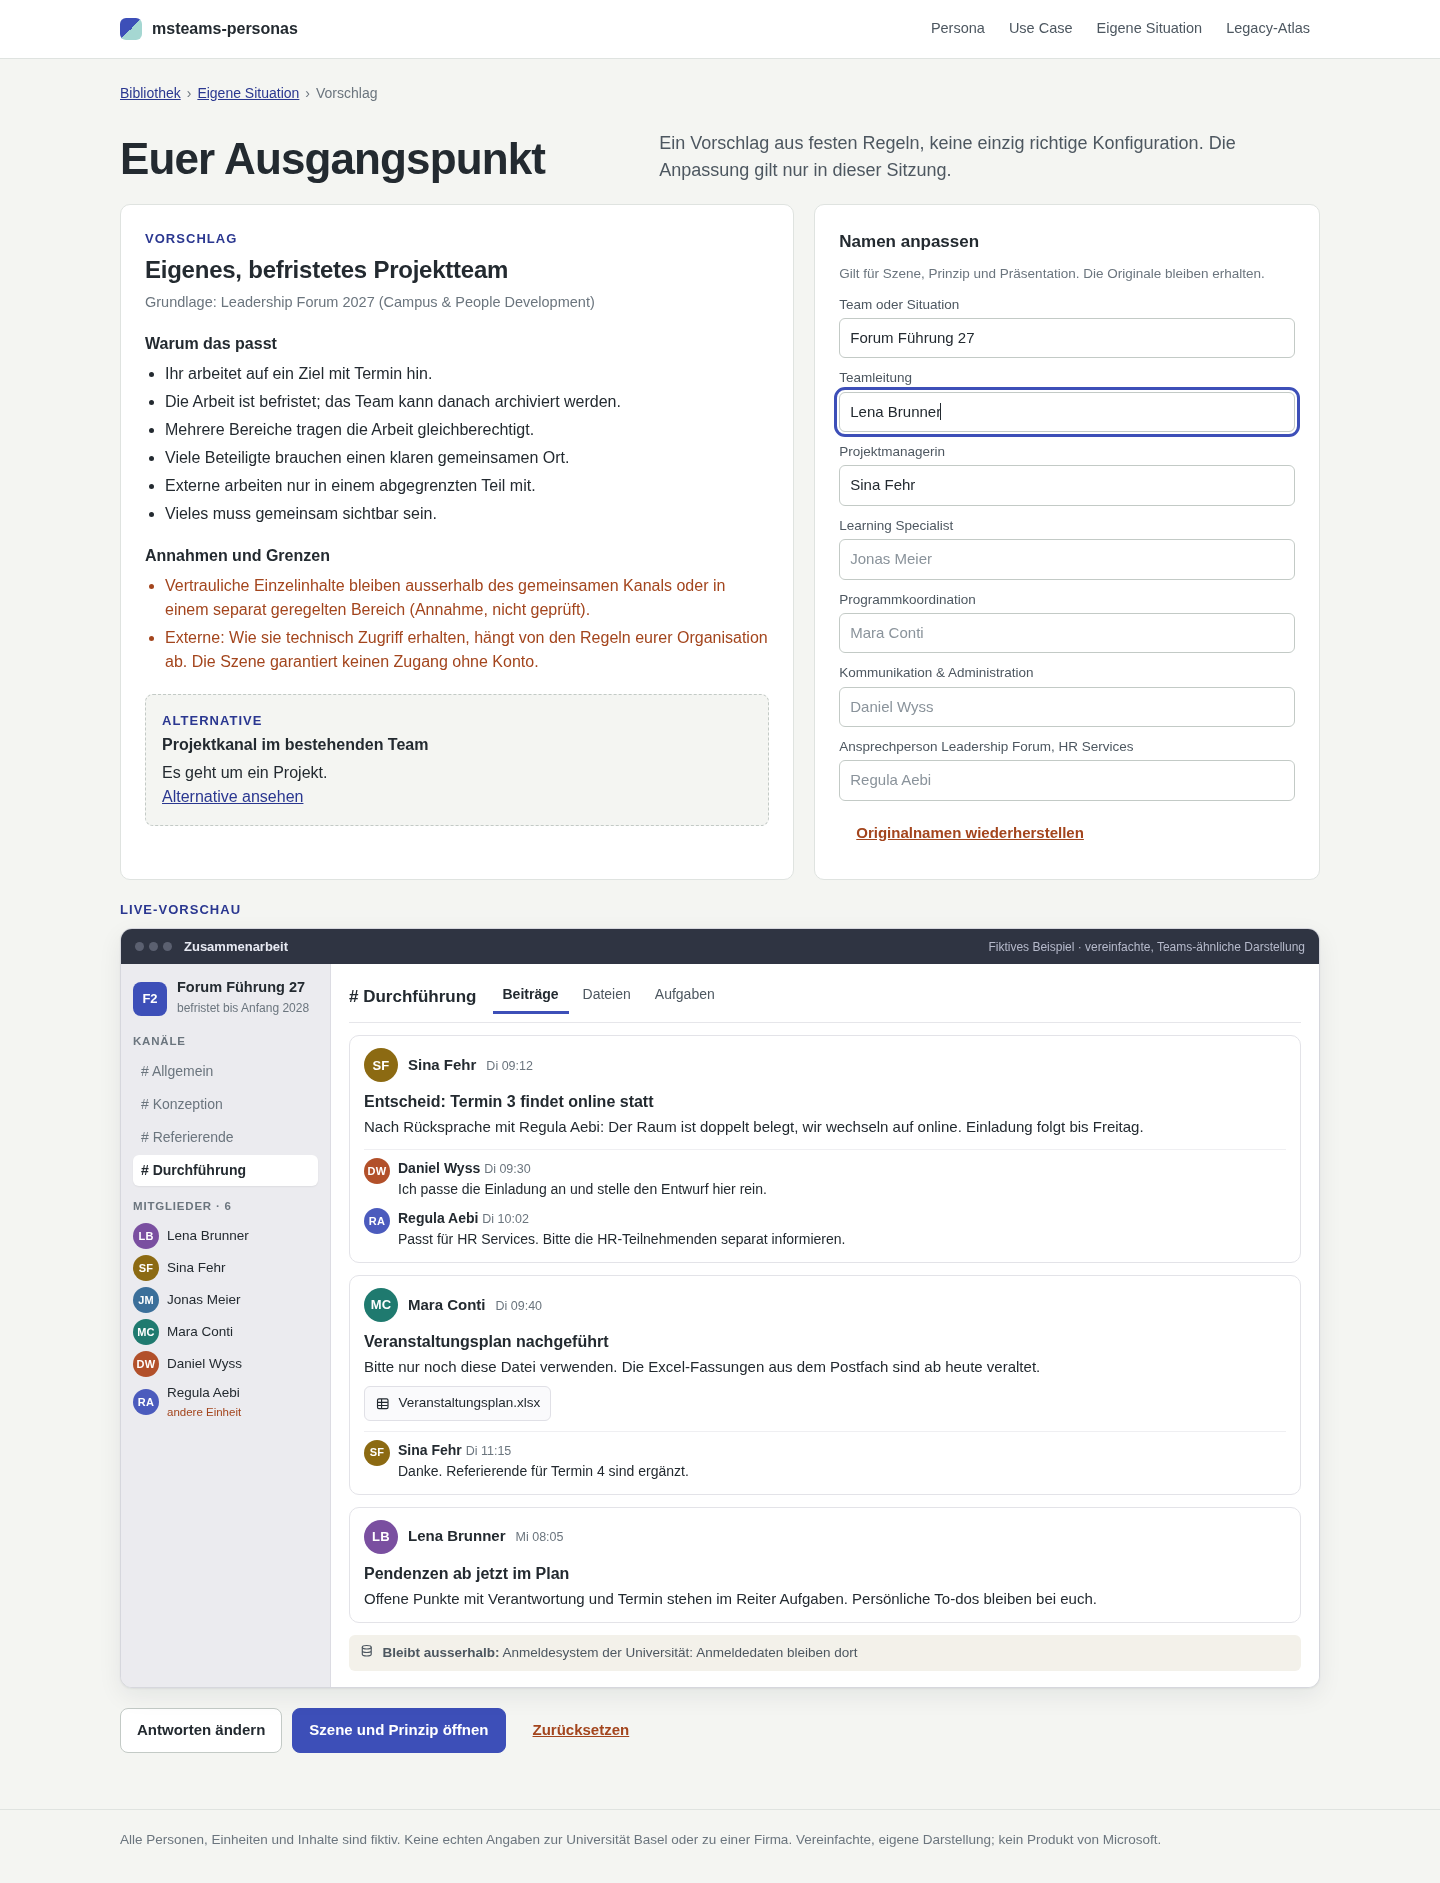
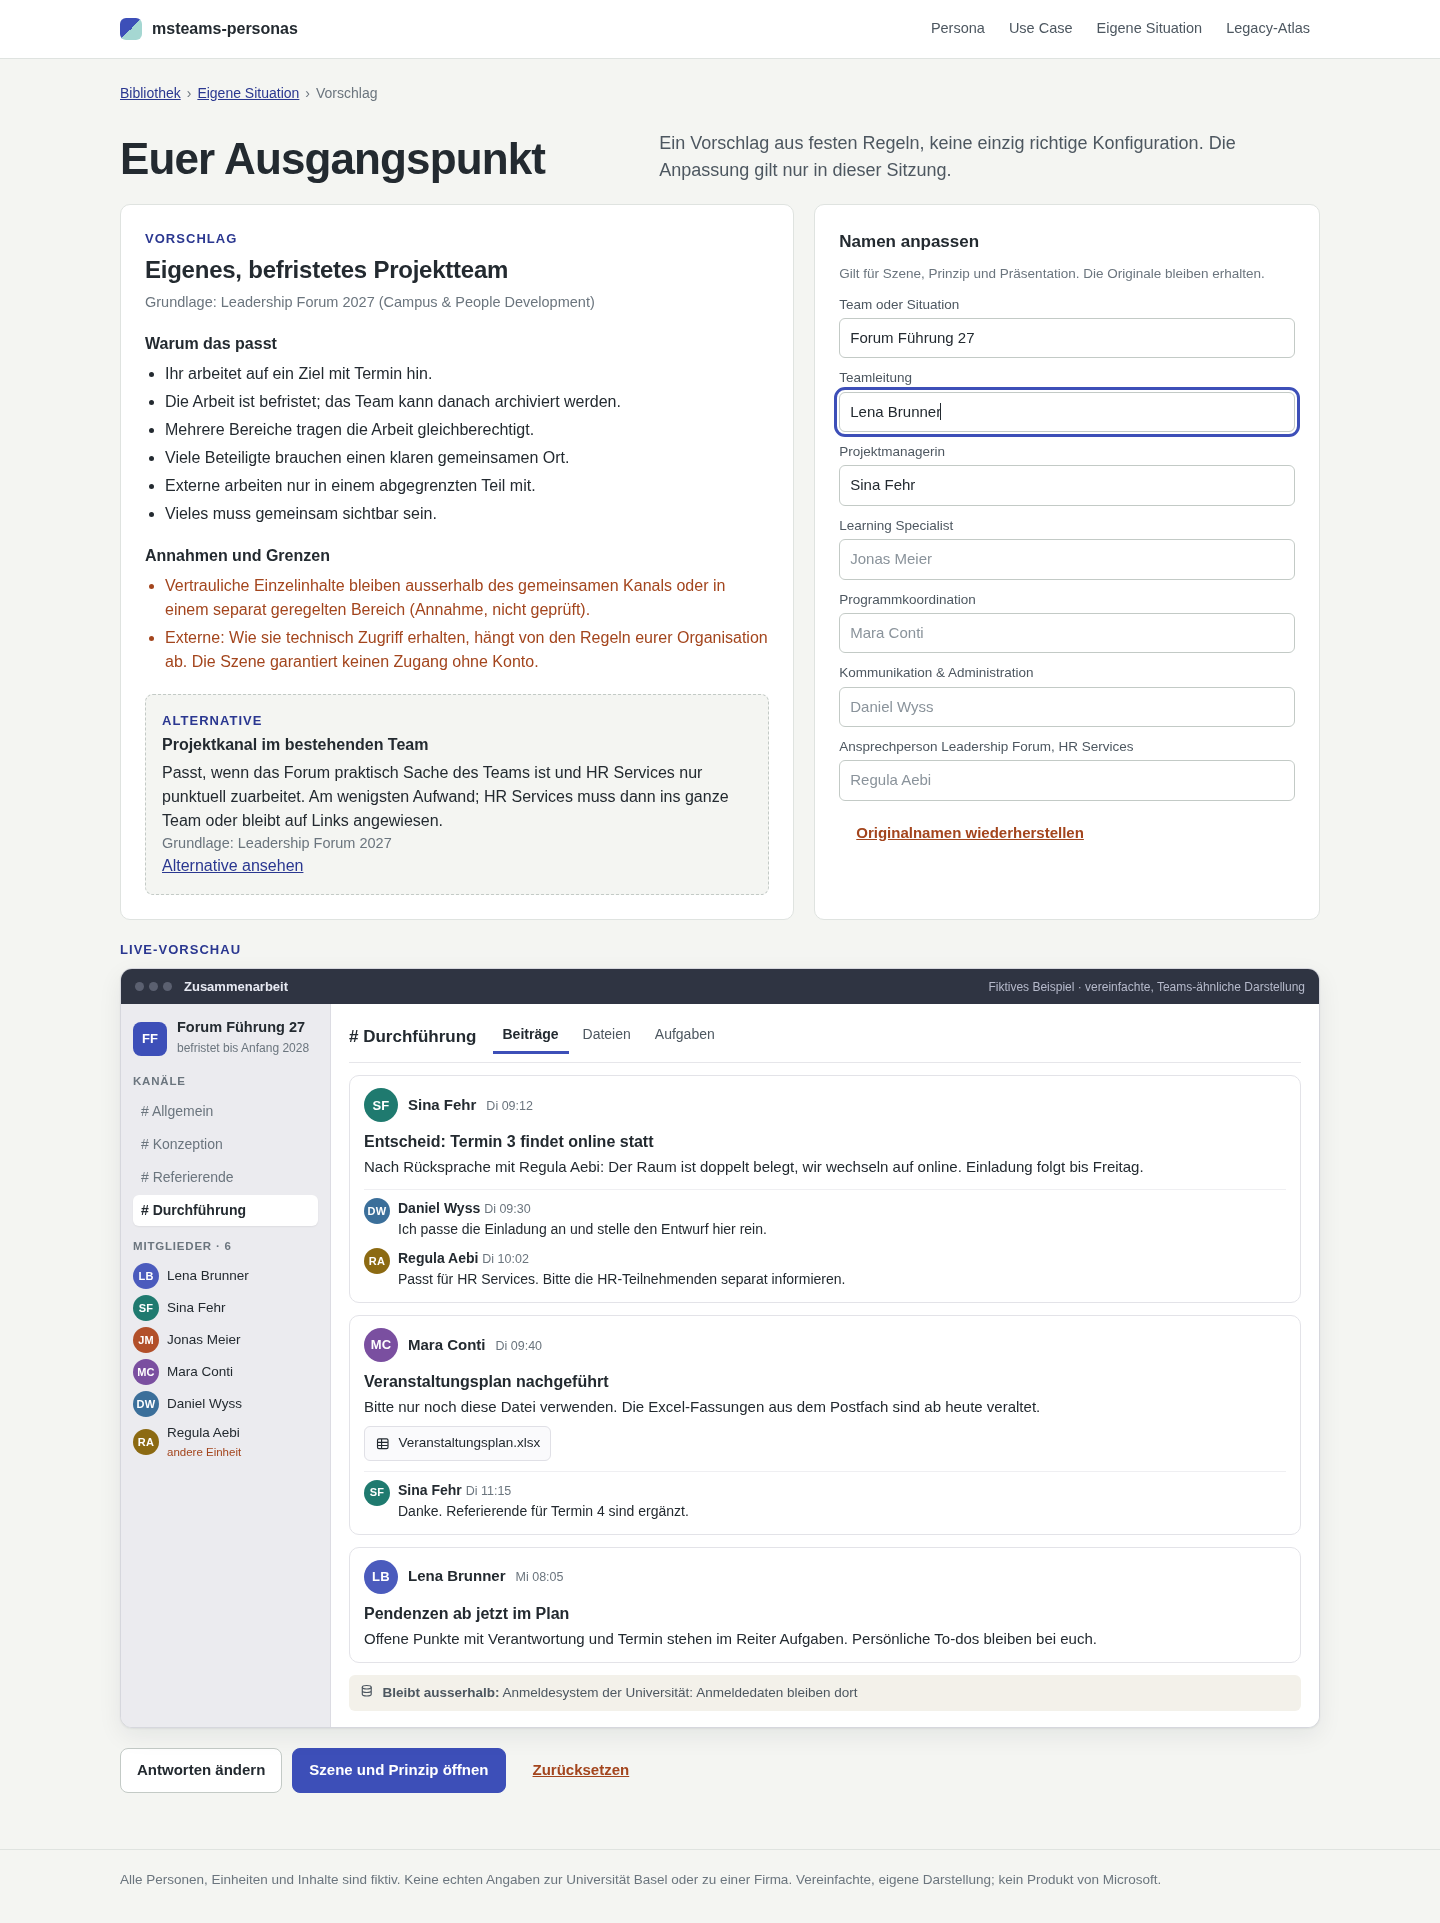
Refine stage fit, hero previews, personal file view and alternative rationale

diff --git a/src/app.css b/src/app.css
@@ -188,7 +188,8 @@ h2{font-size:24px;letter-spacing:-.01em;font-weight:650}
 .tw-files{width:100%;border-collapse:collapse;font-size:14px}
 .tw-files th{text-align:left;font-size:12px;color:var(--ink-3);font-weight:600;padding:6px 8px;border-bottom:1px solid #e6e6ea}
 .tw-files td{padding:9px 8px;border-bottom:1px solid #f0f0f3;vertical-align:top}
-.tw-files td:first-child{display:flex;gap:8px;align-items:center;font-weight:600}
+.tw-files td{overflow-wrap:anywhere}
+.tw-files .fn{display:inline-flex;gap:8px;align-items:center;font-weight:600}
 .tw-files td:last-child{color:var(--ink-2)}
 .tw-tasks{list-style:none;display:grid;gap:6px}
 .tw-tasks li{display:grid;grid-template-columns:22px minmax(0,1fr) auto auto;gap:10px;align-items:center;padding:9px 10px;border:1px solid #e6e6ea;border-radius:8px;position:relative}
@@ -280,7 +281,7 @@ body.presenting #app{padding:0;max-width:none}
 kbd{font:inherit;font-size:11.5px;border:1px solid #6b7080;border-radius:4px;padding:0 5px;color:#c6cad6}
 .stage{position:relative;overflow:hidden;border-radius:6px;box-shadow:0 10px 40px rgba(0,0,0,.4)}
 .stage-in{position:absolute;left:0;top:0;width:1600px;height:900px;transform-origin:0 0;background:var(--page);padding:44px 56px 56px;display:flex;flex-direction:column}
-.stage-in>.tw,.stage-in>.pr{flex:1;min-height:0}
+.stage-in>.tw,.stage-in>.pr{flex:1;min-height:0;overflow:hidden}
 .stage-foot{position:absolute;left:56px;bottom:16px;font-size:15px;color:var(--ink-3)}
 .tw-stage{font-size:20px;display:flex;flex-direction:column}
 .tw-stage .tw-body{flex:1;min-height:0;grid-template-columns:300px minmax(0,1fr)}
@@ -294,7 +295,6 @@ kbd{font:inherit;font-size:11.5px;border:1px solid #6b7080;border-radius:4px;pad
 .tw-stage .tw-head h3{font-size:24px}
 .tw-stage .tw-tabs button{font-size:18px}
 .tw-stage .tw-pt{font-size:22px}
-.tw-stage .tw-tx,.tw-stage .tw-replies li p{display:-webkit-box;-webkit-line-clamp:2;-webkit-box-orient:vertical;overflow:hidden}
 .tw-stage .tw-replies li{font-size:17px}
 .tw-stage .tw-files,.tw-stage .tw-tt strong,.tw-stage .tw-notes li{font-size:19px}
 .tw-stage .tw-main{overflow:hidden}
@@ -305,7 +305,6 @@ kbd{font:inherit;font-size:11.5px;border:1px solid #6b7080;border-radius:4px;pad
 .pr-stage .pr-h h3{font-size:42px}
 .pr-stage .pr-q{font-size:22px}
 .pr-stage .pr-problem{font-size:20px}
-.pr-stage .pd{flex:1;min-height:0}
 .pr-stage .pd-panel h4{font-size:26px}
 .pr-stage .pd-bubble,.pr-stage .pd-post strong{font-size:22px}
 .pr-stage .pp{font-size:17px;max-width:120px}
@@ -313,7 +312,6 @@ kbd{font:inherit;font-size:11.5px;border:1px solid #6b7080;border-radius:4px;pad
 .pr-stage .pd-link span,.pr-stage .pd-copies strong,.pr-stage .pd-rows li,.pr-stage .pd-list ul{font-size:18px}
 .pr-stage .pd-box{max-width:520px}.pr-stage .pd-copies{max-width:480px}
 .pr-stage .pr-foot p{font-size:19px}
-.pr-stage .pr-foot p{display:-webkit-box;-webkit-line-clamp:3;-webkit-box-orient:vertical;overflow:hidden}
 
 /* ============ Responsive ============ */
 @media (max-width:1020px){
@@ -344,6 +342,32 @@ kbd{font:inherit;font-size:11.5px;border:1px solid #6b7080;border-radius:4px;pad
   .pr{padding:18px}
   .cfg-q{padding:18px}
   .tgl{margin-left:0}
+  .var span{display:none}
+  .variants{margin:14px 0;gap:6px}
   .stage-note{display:none}
 }
 @media (prefers-reduced-motion:reduce){*{transition:none!important}}
+
+/* Stage density steps, chosen by fitStage() when content would overflow the 16:9 canvas */
+.stage-in.dense .pr-stage{font-size:17px;padding:26px 32px}
+.stage-in.dense .pr-stage .pr-h h3{font-size:34px}
+.stage-in.dense .pr-stage .pr-problem,.stage-in.dense .pr-stage .pr-foot p{font-size:17px}
+.stage-in.dense .pr-stage .pd-panel{padding:12px}
+.stage-in.dense .pr-stage .pd-link{height:40px}
+.stage-in.dense .pr-stage .pd{margin-top:12px}
+.stage-in.dense .tw-stage{font-size:17px}
+.stage-in.dense .tw-stage .tw-pt{font-size:19px}
+.stage-in.denser .pr-stage .pd-life{padding:8px}
+.stage-in.denser .pr-stage .pd-panel h4{font-size:21px;margin-bottom:6px}
+.stage-in.denser .pr-stage .pp .av{width:36px;height:36px}
+.stage-in.denser .pr-stage .pr-foot{margin-top:10px}
+.stage-in.denser .pr-stage .pr-foot p{padding:10px 12px;font-size:16px}
+.stage-overflow{position:absolute;right:56px;bottom:16px;font-size:14px;color:var(--warn)}
+.pr-stage .pd-boxh{font-size:19px}
+.pr-stage .pd-small,.pr-stage .pd-post small{font-size:15px}
+.stage-in{padding-top:32px}
+.stage-in.denser .pr-stage .pd-copies{gap:5px}
+.stage-in.denser .pr-stage .pd-copies li{padding:5px 12px}
+.stage-in.denser .pr-stage .pd-q{margin-top:6px}
+.stage-in.denser .pr-stage .pr-problem{margin-top:10px;padding:8px 14px}
+.stage-in.denser .pr-stage .pd-stage{padding:6px 12px}

diff --git a/src/views.js b/src/views.js
@@ -88,11 +88,11 @@
   }
 
   function files(vm, o) {
-    return '<table class="tw-files"><thead><tr><th scope="col">Name</th><th scope="col">Geändert</th><th scope="col">Hinweis</th></tr></thead><tbody>' +
+    return '<table class="tw-files"><thead><tr><th scope="col">Name</th>' + (o.personal ? '' : '<th scope="col">Geändert</th>') + '<th scope="col">' + (o.personal ? 'Freigabe' : 'Hinweis') + '</th></tr></thead><tbody>' +
       vm.scene.files.map(function (f) {
         var p = f.by ? vm.person(f.by) : null;
-        return '<tr><td>' + mark(f.mark, o.annot) + ic(FILE_IC[f.kind] || 'i-doc') + '<span>' + esc(f.name) + '</span></td><td>' +
-          (p ? esc(short(p.name)) + (f.when ? ', ' + esc(f.when) : '') : '–') + '</td><td>' + esc(vm.fill(f.note)) + '</td></tr>';
+        return '<tr><td><span class="fn">' + mark(f.mark, o.annot) + ic(FILE_IC[f.kind] || 'i-doc') + '<span>' + esc(f.name) + '</span></span></td>' +
+          (o.personal ? '' : '<td>' + (p ? esc(short(p.name)) + (f.when ? ', ' + esc(f.when) : '') : '–') + '</td>') + '<td>' + esc(vm.fill(f.note)) + '</td></tr>';
       }).join('') + '</tbody></table>';
   }
 
@@ -113,7 +113,7 @@
     return '<figure class="tw tw-personal' + (o.stage ? ' tw-stage' : '') + (o.annot ? ' annot' : '') + '" aria-label="Szene: persönliche Ablage von ' + esc(me.name) + '">' +
       '<div class="tw-bar"><span class="tw-dots" aria-hidden="true"><i></i><i></i><i></i></span><span class="tw-app">Persönliche Ablage</span><span class="tw-label">Fiktives Beispiel · kein Team</span></div>' +
       '<div class="tw-body tw-pbody">' +
-        '<div class="tw-main"><div class="tw-head"><h3>' + av(me, 's') + ' Meine Dateien</h3></div><div class="tw-content">' + files(vm, o) + '</div></div>' +
+        '<div class="tw-main"><div class="tw-head"><h3>' + av(me, 's') + ' Meine Dateien</h3></div><div class="tw-content">' + files(vm, { annot: o.annot, personal: true }) + '</div></div>' +
         '<div class="tw-main tw-todo"><div class="tw-head"><h3>' + ic('i-list') + ' To Do</h3></div><ul class="tw-tasks">' + sc.tasks.map(function (t) {
           return '<li><span class="tw-chk" aria-hidden="true"></span><span class="tw-tt"><strong>' + esc(t.title) + '</strong></span></li>';
         }).join('') + '</ul><p class="tw-pnote">' + esc(sc.teamNote) + '</p></div>' +
@@ -196,7 +196,7 @@
       '<div class="pr-foot">' +
         '<p class="pr-rec"><strong>Empfehlung hier</strong>' + esc(vm.fill(b.recommend)) + '</p>' +
         (o.annot ? '<p class="pr-bound"><strong>Grenze</strong>' + esc(vm.fill(b.boundary)) + '</p>' : '') +
-        (o.annot && alt ? '<p class="pr-alt"><strong>Alternative</strong>' + esc(alt.label) + ': ' + esc(alt.why) + '</p>' : '') +
+        (o.annot && alt ? '<p class="pr-alt"><strong>Alternative</strong>' + esc(alt.label) + (o.stage ? '' : ': ' + esc(alt.why)) + '</p>' : '') +
       '</div></article>';
   }
 

diff --git a/src/app.js b/src/app.js
@@ -153,7 +153,7 @@
         '<div class="res-main"><p class="kick">Vorschlag</p><h2>' + esc(r.best.label) + '</h2><p class="res-base">Grundlage: ' + esc(vm.title) + ' (' + esc(vm.world.name) + ')</p>' +
           '<h3>Warum das passt</h3><ul class="why">' + r.best.reasons.map(function (x) { return '<li>' + esc(x) + '</li>'; }).join('') + '</ul>' +
           (r.cautions.length ? '<h3>Annahmen und Grenzen</h3><ul class="caut">' + r.cautions.map(function (x) { return '<li>' + esc(x) + '</li>'; }).join('') + '</ul>' : '') +
-          '<div class="res-alt"><p class="kick">Alternative</p><h3>' + esc(r.alt.label) + '</h3><p>' + esc(r.alt.reasons[0] || alt.friction) + '</p><a href="' + route(r.alt.situation, r.alt.variant, 'szene') + '">Alternative ansehen</a></div>' +
+          '<div class="res-alt"><p class="kick">Alternative</p><h3>' + esc(r.alt.label) + '</h3><p>' + esc(alt.variant && r.alt.variant ? alt.variant.why : (r.alt.reasons.join(' ') || alt.friction)) + '</p><p class="res-base">Grundlage: ' + esc(alt.title) + '</p><a href="' + route(r.alt.situation, r.alt.variant, 'szene') + '">Alternative ansehen</a></div>' +
         '</div>' +
         '<div class="res-edit">' + nameForm(vm) + '</div>' +
         '<div class="res-prev"><p class="kick">Live-Vorschau</p><div id="preview">' + V.scene(vm, { annot: false }) + '</div></div>' +
@@ -272,6 +272,13 @@
     var availW = window.innerWidth - 24, availH = window.innerHeight - (ctl ? ctl.offsetHeight : 0) - 24;
     var s = Math.min(availW / W, availH / H);
     inner.style.transform = 'scale(' + s + ')';
+    /* Long text: step down density until the visual fits; flag anything still cut off. */
+    var vis = inner.firstElementChild, over = function () { return vis.scrollHeight > vis.clientHeight + 2; };
+    inner.classList.remove('dense', 'denser');
+    var flag = inner.querySelector('.stage-overflow'); if (flag) flag.remove();
+    if (over()) inner.classList.add('dense');
+    if (over()) inner.classList.add('denser');
+    if (over()) inner.insertAdjacentHTML('beforeend', '<p class="stage-overflow">Gekürzt: Volltext in der Arbeitsansicht</p>');
     st.style.width = W * s + 'px'; st.style.height = H * s + 'px';
   }
 
